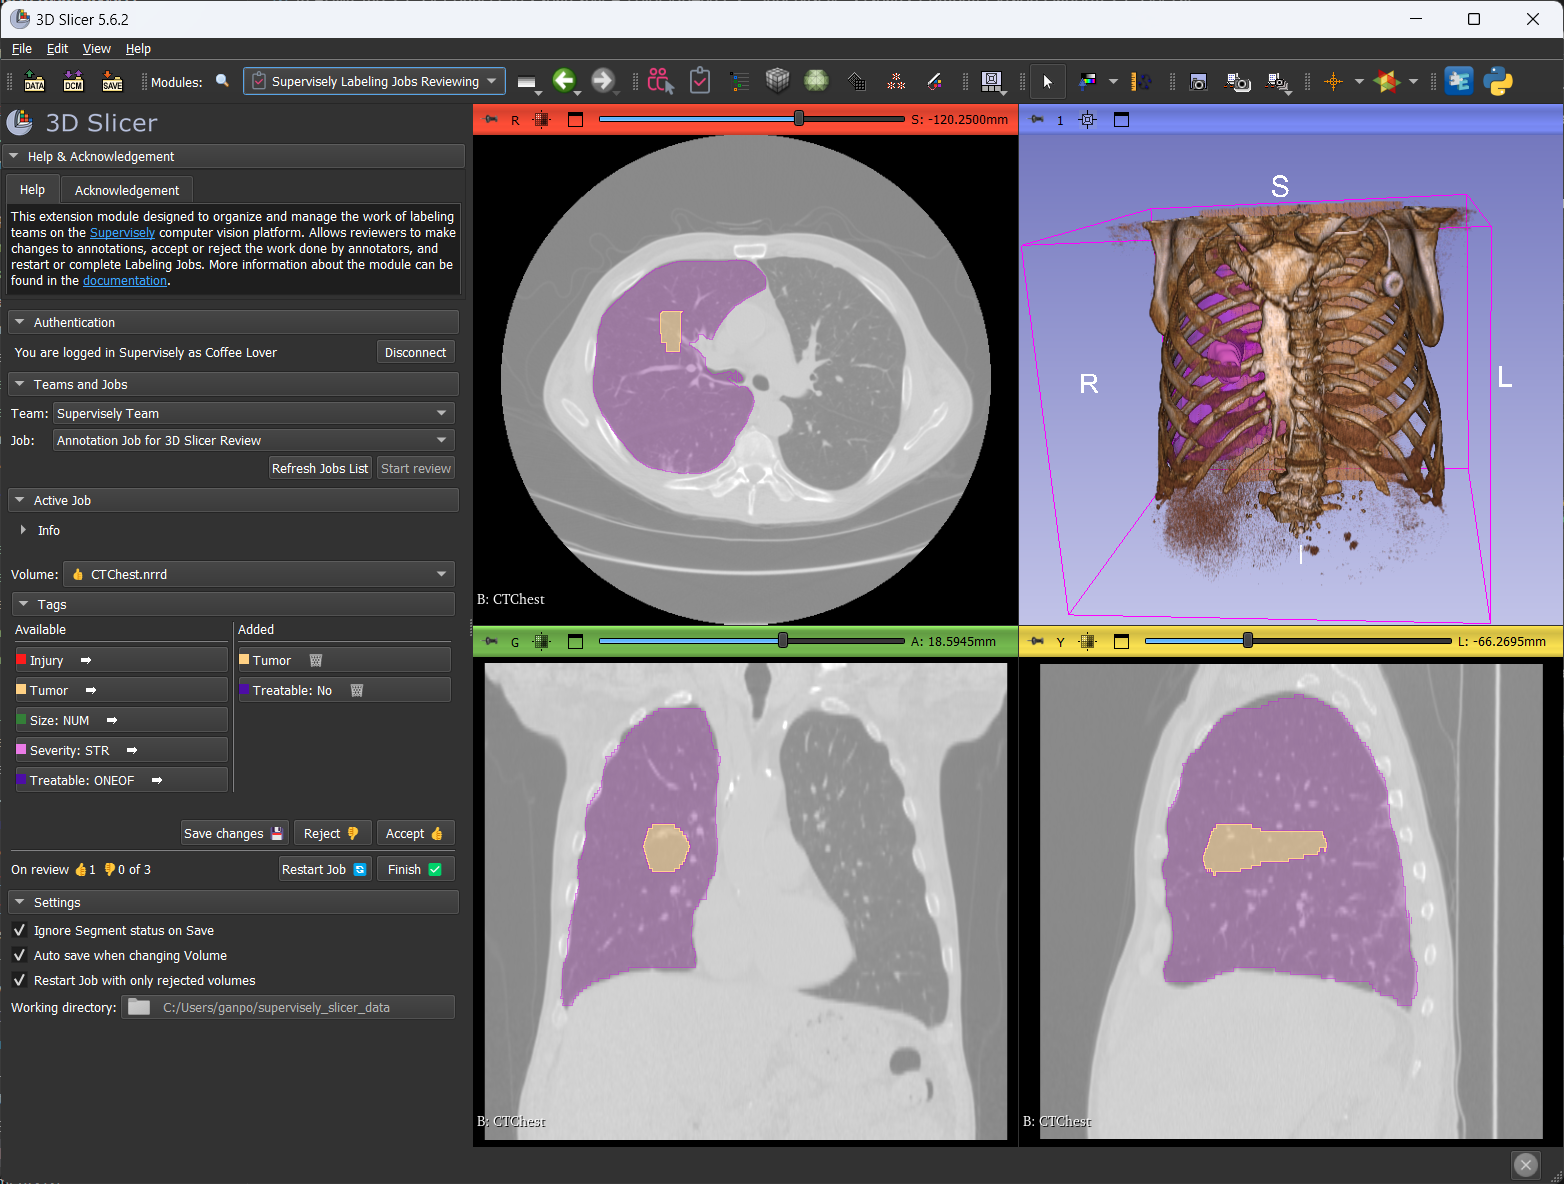
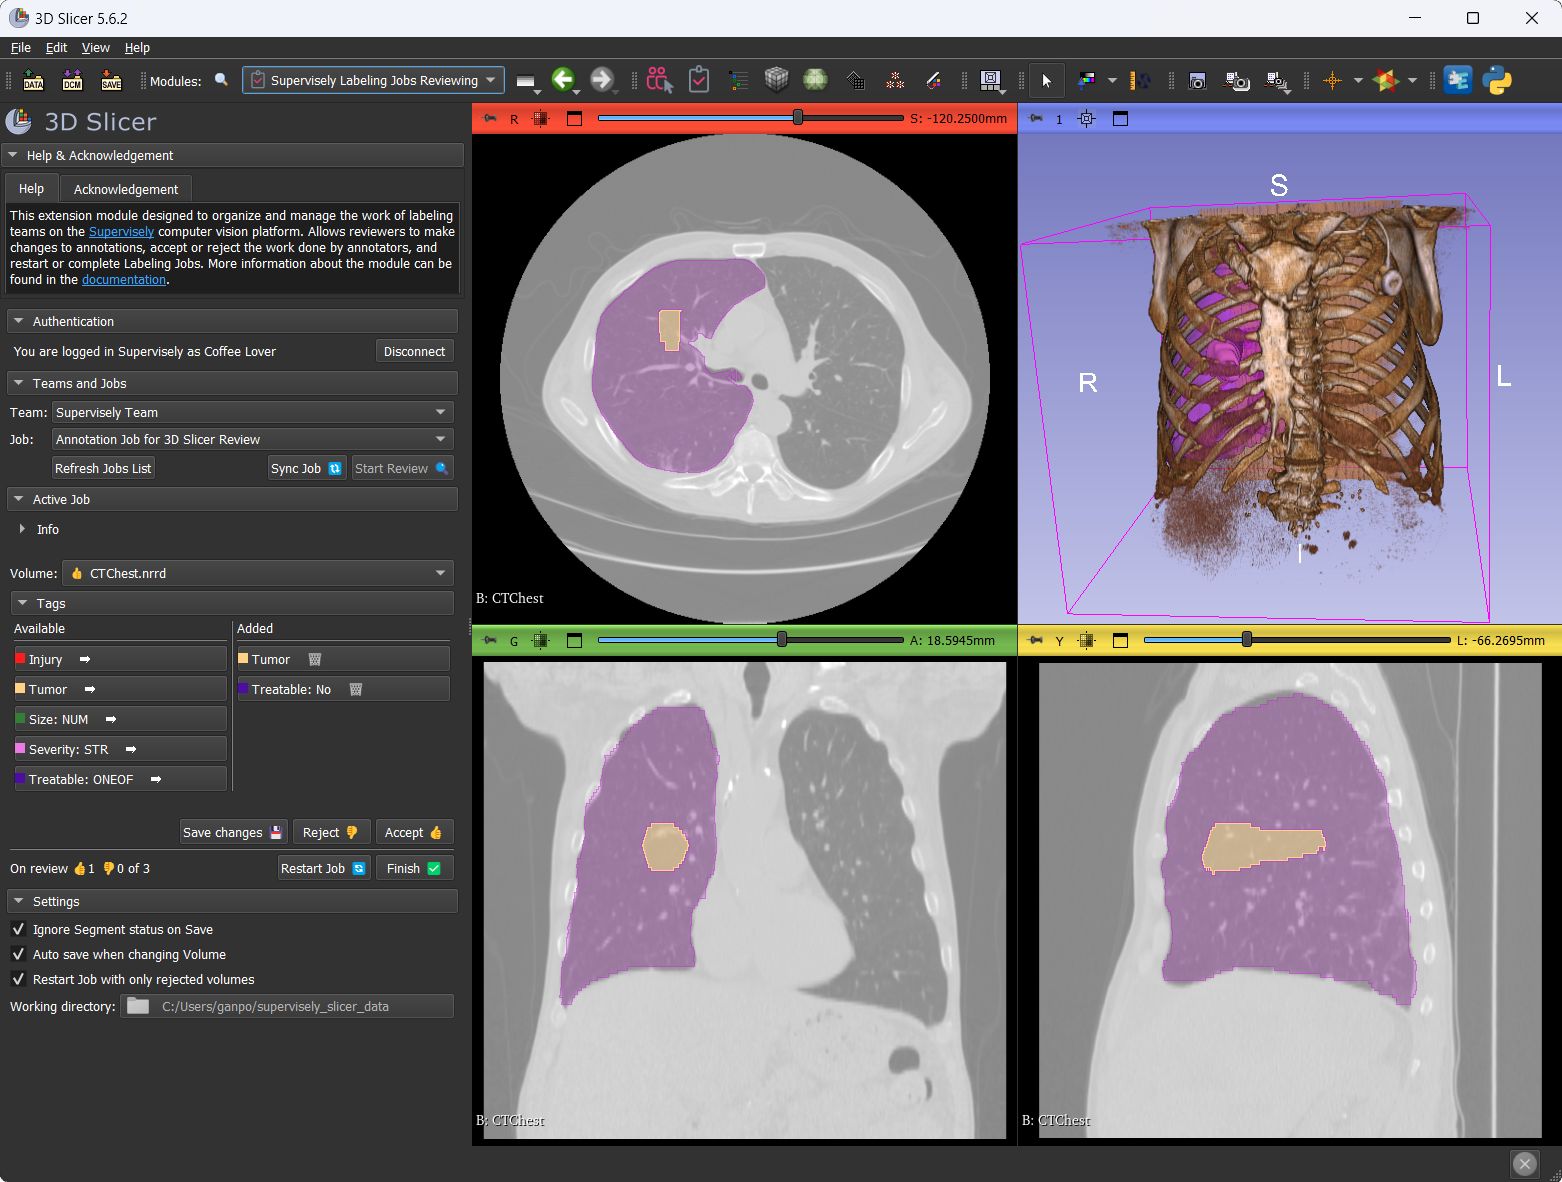
Add Sync Job button to synchronize with the server during labeling Fix Select... placeholder for comboboxes

diff --git a/ConnectToSupervisely/labelingJobsReviewing.py b/ConnectToSupervisely/labelingJobsReviewing.py
@@ -127,7 +127,7 @@ class labelingJobsReviewingWidget(ScriptedLoadableModuleWidget):
 
         # Buttons
         self.ui.connectButton.connect("clicked(bool)", self.onConnectButton)
-        self.ui.RefreshJobs.connect("clicked(bool)", self.onRefreshJobsButton)
+        self.ui.refreshJobsButton.connect("clicked(bool)", self.onRefreshJobsButton)
         self.ui.startJobButton.connect("clicked(bool)", self.onStartJobButton)
         self.ui.saveButton.connect("clicked(bool)", self.onSaveButton)
         self.ui.acceptButton.connect("clicked(bool)", self.onAcceptButton)
@@ -135,6 +135,7 @@ class labelingJobsReviewingWidget(ScriptedLoadableModuleWidget):
         self.ui.restartButton.connect("clicked(bool)", self.onRestartButton)
         self.ui.finishButton.connect("clicked(bool)", self.onFinishButton)
         self.ui.workingDirButton.directoryChanged.connect(self.onWorkingDirButton)
+        self.ui.syncCurrentJobButton.connect("clicked(bool)", self.onSyncCurrentJobButton)
 
         # Lists
         self.ui.teamSelector.currentIndexChanged.connect(self.onSelectTeam)
@@ -191,18 +192,20 @@ class labelingJobsReviewingWidget(ScriptedLoadableModuleWidget):
             self.ui.workingDirButton.setEnabled(True)
             self.ui.activeJob.setChecked(False)
             self.ui.activeJob.setEnabled(False)
-            self.ui.RefreshJobs.setEnabled(True)
+            self.ui.refreshJobsButton.setEnabled(True)
+            self.ui.syncCurrentJobButton.setEnabled(False)
 
-    @log_method_call
-    def onSelectJob(self) -> None:
+    @log_method_call_args
+    def onSelectJob(self, sync: bool = False) -> None:
         """Run processing when user change "Job" in selector."""
         with slicer.util.tryWithErrorDisplay(_("Failed to select Job."), waitCursor=True):
             index = self.ui.jobSelector.findText("Select...")
             self.ui.jobSelector.removeItem(index)
             if self.logic.savePath and os.path.exists(self.logic.savePath):
-                if self.logic.volume and slicer.util.confirmYesNoDisplay(
-                    "Do you want to save changes before select another job?"
-                ):
+                text = "Do you want to save changes before select another job?"
+                if sync:
+                    text = "Do you want to save changes before sync current job?"
+                if self.logic.volume and slicer.util.confirmYesNoDisplay(text):
                     self.logic.saveAnnotations()
                     self.logic.uploadAnnObjectChangesToServer()
                     self.logic.uploadTagsChangesToServer()
@@ -223,6 +226,15 @@ class labelingJobsReviewingWidget(ScriptedLoadableModuleWidget):
         """Run processing when user clicks "Refresh Jobs List" button."""
         with slicer.util.tryWithErrorDisplay(_("Failed to refresh Jobs list."), waitCursor=True):
             self.logic.getJobs(refresh=True)
+
+    @log_method_call
+    def onSyncCurrentJobButton(self) -> None:
+        """Run processing when user clicks "Sync Current Job" button."""
+        with slicer.util.tryWithErrorDisplay(
+            _("Failed to synchronize current job."), waitCursor=True
+        ):
+            self.onSelectJob(sync=True)
+            self.onStartJobButton()
 
     @log_method_call
     def onStartJobButton(self) -> None:
@@ -421,8 +433,9 @@ class labelingJobsReviewingLogic(ScriptedLoadableModuleLogic):
                 self._activateTeamSelection()
         else:
             self.ui.loginName.hide()
-        self.ui.RefreshJobs.setEnabled(False)
+        self.ui.refreshJobsButton.setEnabled(False)
         self.ui.startJobButton.setEnabled(False)
+        self.ui.syncCurrentJobButton.setEnabled(False)
         self.ui.workingDirButton.setFixedHeight(26)
 
     @log_method_call
@@ -510,7 +523,11 @@ class labelingJobsReviewingLogic(ScriptedLoadableModuleLogic):
         if len(self.jobList) != 0:
             self.ui.jobSelector.addItems([job.name for job in self.jobList])
             if refresh:
-                self.ui.jobSelector.currentText = currentSelection
+                self.ui.jobSelector.currentText = (
+                    currentSelection
+                    if currentSelection in [job.name for job in self.jobList]
+                    else "Select..."
+                )
                 if not self.ui.jobSelector.currentText == "Select...":
                     index = self.ui.jobSelector.findText("Select...")
                     self.ui.jobSelector.removeItem(index)
@@ -591,6 +608,7 @@ Do you want to continue?"""
         self.ui.volumeSelector.blockSignals(False)
         self.ui.volumeSelector.enabled = True
         self.ui.startJobButton.setEnabled(False)
+        self.ui.syncCurrentJobButton.setEnabled(True)
         self.ui.activeJob.setEnabled(True)
         self.ui.activeJob.setChecked(True)
 
@@ -1017,6 +1035,7 @@ Do you want to continue?"""
         if count == 0:
             self.ui.volumeSelector.setEnabled(False)
             self.ui.startJobButton.setEnabled(False)
+            self.ui.syncCurrentJobButton.setEnabled(False)
             self.ui.volumeSelector.currentText = "No volumes available"
             self.ui.acceptButton.setEnabled(False)
             self.ui.rejectButton.setEnabled(False)
@@ -1106,7 +1125,7 @@ Do you want to continue?"""
     # --------------------------------------- Technical Methods -------------------------------------- #
 
     @log_method_call_args
-    def increment_progress_bar(self, value):
+    def incrementProgressBar(self, value):
         self.ui.progressBar.setValue(self.ui.progressBar.value + value)
 
     @log_method_call_args
@@ -1122,7 +1141,7 @@ Do you want to continue?"""
             self.savePath,
             [self.activeJob.dataset_id],
             download_volumes=downloadVolumes,
-            progress_cb=self.increment_progress_bar,
+            progress_cb=self.incrementProgressBar,
         )
         self.api.pop_header("x-job-id")
         self.ui.progressBar.reset()

diff --git a/ConnectToSupervisely/labelingJobsAnnotating.py b/ConnectToSupervisely/labelingJobsAnnotating.py
@@ -125,12 +125,13 @@ class labelingJobsAnnotatingWidget(ScriptedLoadableModuleWidget):
 
         # Buttons
         self.ui.connectButton.connect("clicked(bool)", self.onConnectButton)
-        self.ui.RefreshJobs.connect("clicked(bool)", self.onRefreshJobsButton)
+        self.ui.refreshJobsButton.connect("clicked(bool)", self.onRefreshJobsButton)
         self.ui.startJobButton.connect("clicked(bool)", self.onStartJobButton)
         self.ui.saveButton.connect("clicked(bool)", self.onSaveButton)
         self.ui.confirmButton.connect("clicked(bool)", self.onConfirmButton)
         self.ui.submitButton.connect("clicked(bool)", self.onSubmitButton)
         self.ui.workingDirButton.directoryChanged.connect(self.onWorkingDirButton)
+        self.ui.syncCurrentJobButton.connect("clicked(bool)", self.onSyncCurrentJobButton)
 
         # Lists
         self.ui.teamSelector.currentIndexChanged.connect(self.onSelectTeam)
@@ -187,18 +188,20 @@ class labelingJobsAnnotatingWidget(ScriptedLoadableModuleWidget):
             self.ui.workingDirButton.setEnabled(True)
             self.ui.activeJob.setChecked(False)
             self.ui.activeJob.setEnabled(False)
-            self.ui.RefreshJobs.setEnabled(True)
+            self.ui.refreshJobsButton.setEnabled(True)
+            self.ui.syncCurrentJobButton.setEnabled(False)
 
-    @log_method_call
-    def onSelectJob(self) -> None:
+    @log_method_call_args
+    def onSelectJob(self, sync: bool = False) -> None:
         """Run processing when user change "Job" in selector."""
         with slicer.util.tryWithErrorDisplay(_("Failed to select Job."), waitCursor=True):
             index = self.ui.jobSelector.findText("Select...")
             self.ui.jobSelector.removeItem(index)
             if self.logic.savePath and os.path.exists(self.logic.savePath):
-                if self.logic.volume and slicer.util.confirmYesNoDisplay(
-                    "Do you want to save changes before select another job?"
-                ):
+                text = "Do you want to save changes before select another job?"
+                if sync:
+                    text = "Do you want to save changes before sync current job?"
+                if self.logic.volume and slicer.util.confirmYesNoDisplay(text):
                     self.logic.saveAnnotations()
                     self.logic.uploadAnnObjectChangesToServer()
                     self.logic.uploadTagsChangesToServer()
@@ -219,6 +222,15 @@ class labelingJobsAnnotatingWidget(ScriptedLoadableModuleWidget):
         """Run processing when user clicks "Refresh Jobs List" button."""
         with slicer.util.tryWithErrorDisplay(_("Failed to refresh Jobs list."), waitCursor=True):
             self.logic.getJobs(refresh=True)
+
+    @log_method_call
+    def onSyncCurrentJobButton(self) -> None:
+        """Run processing when user clicks "Sync Current Job" button."""
+        with slicer.util.tryWithErrorDisplay(
+            _("Failed to synchronize current job."), waitCursor=True
+        ):
+            self.onSelectJob(sync=True)
+            self.onStartJobButton()
 
     @log_method_call
     def onStartJobButton(self) -> None:
@@ -385,8 +397,9 @@ class labelingJobsAnnotatingLogic(ScriptedLoadableModuleLogic):
                 self._activateTeamSelection()
         else:
             self.ui.loginName.hide()
-        self.ui.RefreshJobs.setEnabled(False)
+        self.ui.refreshJobsButton.setEnabled(False)
         self.ui.startJobButton.setEnabled(False)
+        self.ui.syncCurrentJobButton.setEnabled(False)
         self.ui.workingDirButton.setFixedHeight(26)
 
     @log_method_call
@@ -475,7 +488,11 @@ class labelingJobsAnnotatingLogic(ScriptedLoadableModuleLogic):
         if len(self.jobList) != 0:
             self.ui.jobSelector.addItems([job.name for job in self.jobList])
             if refresh:
-                self.ui.jobSelector.currentText = currentSelection
+                self.ui.jobSelector.currentText = (
+                    currentSelection
+                    if currentSelection in [job.name for job in self.jobList]
+                    else "Select..."
+                )
                 if not self.ui.jobSelector.currentText == "Select...":
                     index = self.ui.jobSelector.findText("Select...")
                     self.ui.jobSelector.removeItem(index)
@@ -556,6 +573,7 @@ Do you want to continue?"""
         self.ui.volumeSelector.blockSignals(False)
         self.ui.volumeSelector.enabled = True
         self.ui.startJobButton.setEnabled(False)
+        self.ui.syncCurrentJobButton.setEnabled(True)
         self.ui.activeJob.setEnabled(True)
         self.ui.activeJob.setChecked(True)
 
@@ -982,6 +1000,7 @@ Do you want to continue?"""
         if count == 0:
             self.ui.volumeSelector.setEnabled(False)
             self.ui.startJobButton.setEnabled(False)
+            self.ui.syncCurrentJobButton.setEnabled(False)
             self.ui.volumeSelector.currentText = "No volumes available"
             self.ui.confirmButton.setEnabled(False)
             self._deactivateJobButtons()
@@ -1054,7 +1073,7 @@ Do you want to continue?"""
     # --------------------------------------- Technical Methods -------------------------------------- #
 
     @log_method_call_args
-    def increment_progress_bar(self, value):
+    def incrementProgressBar(self, value):
         self.ui.progressBar.setValue(self.ui.progressBar.value + value)
 
     @log_method_call_args
@@ -1070,7 +1089,7 @@ Do you want to continue?"""
             self.savePath,
             [self.activeJob.dataset_id],
             download_volumes=downloadVolumes,
-            progress_cb=self.increment_progress_bar,
+            progress_cb=self.incrementProgressBar,
         )
         self.api.pop_header("x-job-id")
         self.ui.progressBar.reset()

diff --git a/README.md b/README.md
@@ -95,6 +95,13 @@ The tutorial assumes that you already have the module **ConnectToSupervisely** i
 
 6. Click `Start Labeling`. The data will be downloaded from the server and saved in the `Working directory` which can be adjusted in the Settings section.
 
+   During the process, you can use the `Sync Job` button to synchronize with the server:
+
+   - agree to save the current state, then only the modified annotation objects in 3D Slicer (number `3` in the image below) will overwrite the state of the same objects on the server, all other objects will keep their states
+   - refuse to save, then all changes made in 3D Slicer will be reset and the user will receive an updated Labeling Job
+
+     ☝ Not to forget that if new classes or tags have been added to the project, they should be added in the Labeling Job settings.
+
 7. Select the Volume you want to work with. Segmentations will be automatically created to represent classes of annotation objects.
 
    ![Supervisely representation in 3D Slicer](./Images/subject_hierarchy.png)
